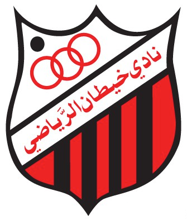
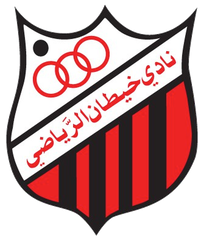
شعارات المنافسين بدون خلفية بيضاء (شعار خيطان + أي شعار يُرفع)
Claude-Session: https://claude.ai/code/session_01Vqd2zG6tFE7ub54kgoYbkb

diff --git a/js/app.js b/js/app.js
@@ -288,6 +288,18 @@
     render();
   };
 
+  /** شعار المنافس: نشيل الخلفية البيضاء المحيطة فقط (الأبيض داخل الشعار يبقى) */
+  function dropWhiteBg(c) {
+    const ctx = c.getContext("2d"), w = c.width, h = c.height, d = ctx.getImageData(0, 0, w, h), px = d.data;
+    const white = (i) => px[i * 4 + 3] > 0 && px[i * 4] > 236 && px[i * 4 + 1] > 236 && px[i * 4 + 2] > 236;
+    const seen = new Uint8Array(w * h), q = [];
+    const push = (i) => { if (!seen[i] && white(i)) { seen[i] = 1; q.push(i); } };
+    for (let x = 0; x < w; x++) { push(x); push((h - 1) * w + x); }
+    for (let y = 0; y < h; y++) { push(y * w); push(y * w + w - 1); }
+    while (q.length) { const i = q.pop(), x = i % w; px[i * 4 + 3] = 0; if (x > 0) push(i - 1); if (x < w - 1) push(i + 1); if (i >= w) push(i - w); if (i < w * (h - 1)) push(i + w); }
+    ctx.putImageData(d, 0, 0);
+  }
+
   /* ---------- event form ---------- */
   function eventForm(ev, presetDate, presetType) {
     const conf = C.conf(), isNew = !ev;
@@ -317,7 +329,7 @@
         $("#lgIn", w).addEventListener("change", (x) => {
           const f = x.target.files[0]; if (!f) return;
           const im = new Image(), url = URL.createObjectURL(f);
-          im.onload = () => { const sc = Math.min(1, 200 / Math.max(im.width, im.height)), c = document.createElement("canvas"); c.width = Math.round(im.width * sc); c.height = Math.round(im.height * sc); c.getContext("2d").drawImage(im, 0, 0, c.width, c.height); newLogo = c.toDataURL("image/png"); $("#lgPrev", w).innerHTML = `<img src="${newLogo}" alt="" style="width:44px;height:44px;object-fit:contain">`; URL.revokeObjectURL(url); };
+          im.onload = () => { const sc = Math.min(1, 200 / Math.max(im.width, im.height)), c = document.createElement("canvas"); c.width = Math.round(im.width * sc); c.height = Math.round(im.height * sc); c.getContext("2d").drawImage(im, 0, 0, c.width, c.height); dropWhiteBg(c); newLogo = c.toDataURL("image/png"); $("#lgPrev", w).innerHTML = `<img src="${newLogo}" alt="" style="width:44px;height:44px;object-fit:contain">`; URL.revokeObjectURL(url); };
           im.onerror = () => toast("تعذّر قراءة الصورة", true);
           im.src = url;
         });
